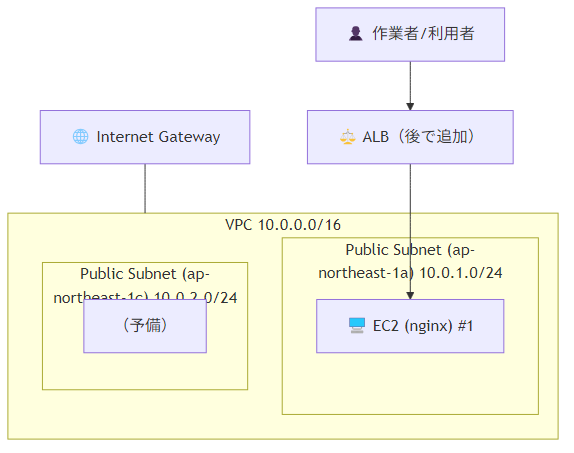
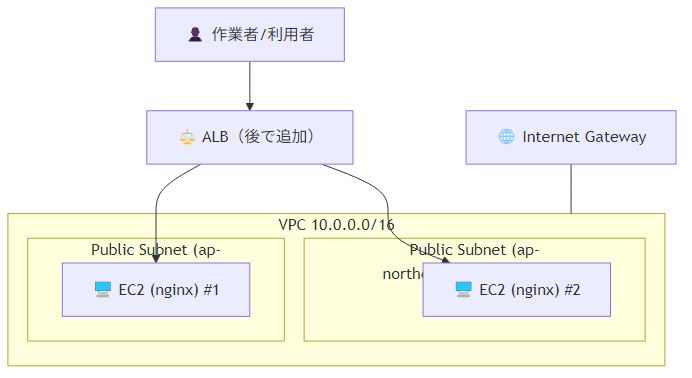
AI flow: update design and generate artifacts

Changed region(s): [[0.0, 0.0, 0.9774, 0.9894], [0.5923, 0.0582, 0.8293, 0.0873]]

diff --git a/tools/render_cfn.py b/tools/render_cfn.py
@@ -1,17 +1,32 @@
-import json
+import json, os
 
-with open("design/design.json", encoding="utf-8") as f:
+DESIGN_PATH = "design/design.json"
+OUT_PATH = "cfn/main.yaml"
+os.makedirs("cfn", exist_ok=True)
+
+with open(DESIGN_PATH, encoding="utf-8") as f:
     d = json.load(f)
 
-instances = int(d.get("web", {}).get("instances", 1))
-instance_type = d.get("web", {}).get("instanceType", "t3.micro")
+# ここが必ず web.instances を拾うように強制
+web = d.get("web", {})
+# 保険：web.instances が無い場合、EC2.instances も拾う
+if "instances" not in web and isinstance(d.get("EC2"), dict) and "instances" in d["EC2"]:
+    web["instances"] = d["EC2"]["instances"]
 
-# まずは既存の cfn/main.yaml をそのまま使い、
-# "EC2の台数" だけを実現するために、WebInstanceを2台まで生成する簡易版。
-# （この後 ALB 追加のタイミングで本格化します）
+instances_raw = web.get("instances", 1)
 
-# 既存テンプレの「土台＋WebInstance1台」版をベースにしつつ、
-# instances=2のときは WebInstance2 を追加する。
+try:
+    instances = int(instances_raw)
+except Exception:
+    # もし "2台" みたいな文字列が来ても数字だけ拾う
+    import re
+    m = re.search(r"\d+", str(instances_raw))
+    instances = int(m.group(0)) if m else 1
+
+instances = max(1, min(instances, 2))  # デモなので 1〜2 台に制限
+instance_type = web.get("instanceType", "t3.micro")
+
+print(f"generated: {OUT_PATH} (instances = {instances})")
 
 base = f"""AWSTemplateFormatVersion: "2010-09-09"
 Description: "ai-iac-demo: VPC baseline + EC2 (nginx) generated from design.json"
@@ -83,9 +98,6 @@ Resources:
       CidrBlock: !Ref PublicSubnet1Cidr
       AvailabilityZone: !Ref Az1
       MapPublicIpOnLaunch: true
-      Tags:
-        - Key: Name
-          Value: ai-iac-demo-public-1
 
   PublicSubnet2:
     Type: AWS::EC2::Subnet
@@ -94,9 +106,6 @@ Resources:
       CidrBlock: !Ref PublicSubnet2Cidr
       AvailabilityZone: !Ref Az2
       MapPublicIpOnLaunch: true
-      Tags:
-        - Key: Name
-          Value: ai-iac-demo-public-2
 
   PublicSubnet1RouteTableAssociation:
     Type: AWS::EC2::SubnetRouteTableAssociation
@@ -126,8 +135,7 @@ Resources:
     Properties:
       InstanceType: !Ref InstanceType
       SubnetId: !Ref PublicSubnet1
-      SecurityGroupIds:
-        - !Ref WebSecurityGroup
+      SecurityGroupIds: [!Ref WebSecurityGroup]
       ImageId: !Sub "{{{{resolve:ssm:/aws/service/ami-amazon-linux-latest/al2023-ami-kernel-6.1-x86_64}}}}"
       UserData:
         Fn::Base64: !Sub |
@@ -151,8 +159,7 @@ if instances >= 2:
     Properties:
       InstanceType: !Ref InstanceType
       SubnetId: !Ref PublicSubnet2
-      SecurityGroupIds:
-        - !Ref WebSecurityGroup
+      SecurityGroupIds: [!Ref WebSecurityGroup]
       ImageId: !Sub "{{resolve:ssm:/aws/service/ami-amazon-linux-latest/al2023-ami-kernel-6.1-x86_64}}"
       UserData:
         Fn::Base64: !Sub |
@@ -170,8 +177,6 @@ if instances >= 2:
 
 outputs = """
 Outputs:
-  VpcId:
-    Value: !Ref VPC
   Web1PublicIp:
     Value: !GetAtt WebInstance1.PublicIp
 """
@@ -182,7 +187,5 @@ if instances >= 2:
     Value: !GetAtt WebInstance2.PublicIp
 """
 
-with open("cfn/main.yaml", "w", encoding="utf-8") as f:
+with open(OUT_PATH, "w", encoding="utf-8", newline="\n") as f:
     f.write(base + extra + outputs)
-
-print("generated: cfn/main.yaml (instances =", instances, ")")

diff --git a/tools/ai_chat.py b/tools/ai_chat.py
@@ -21,18 +21,37 @@ with open(DESIGN_PATH, encoding="utf-8") as f:
 req = input("要望を入力: ").strip()
 
 prompt = f"""
-あなたはJSONだけを返すアシスタントです。説明文は禁止。
-次のdesign.jsonを、要望に合わせて更新してください。
+あなたはAWS構成の design.json を更新するアシスタントです。
+出力は **必ず JSONのみ**。説明文や ``` は禁止。
 
-【現在のdesign.json】
+次のスキーマを必ず守ってください（キー名を変えない / キーを消さない）：
+{{
+  "project": "ai-iac-demo",
+  "region": "ap-northeast-1",
+  "network": {{
+    "vpcCidr": "10.0.0.0/16",
+    "publicSubnets": [
+      {{"az":"ap-northeast-1a","cidr":"10.0.1.0/24"}},
+      {{"az":"ap-northeast-1c","cidr":"10.0.2.0/24"}}
+    ]
+  }},
+  "web": {{
+    "instanceType": "t3.micro",
+    "instances": 1,
+    "server": "nginx"
+  }}
+}}
+
+現在のJSON（これをベースに更新）：
 {json.dumps(design, ensure_ascii=False)}
 
-【要望】
+要望：
 {req}
 
-【出力ルール】
-- 出力は必ずJSONのみ
-- 先頭や末尾に説明文や```は付けない
+ルール：
+- 変更が必要な部分だけ値を更新し、それ以外は維持する
+- EC2の台数は必ず web.instances（整数）で表現する（例: 2）
+- EC2 など別キー（"EC2"）は作らない
 """
 
 resp = client.models.generate_content(
